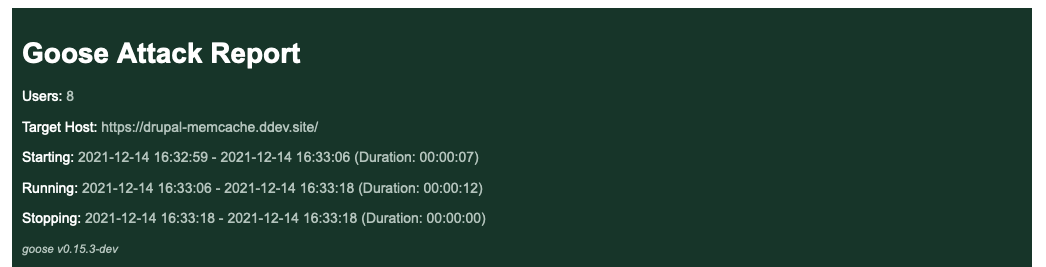
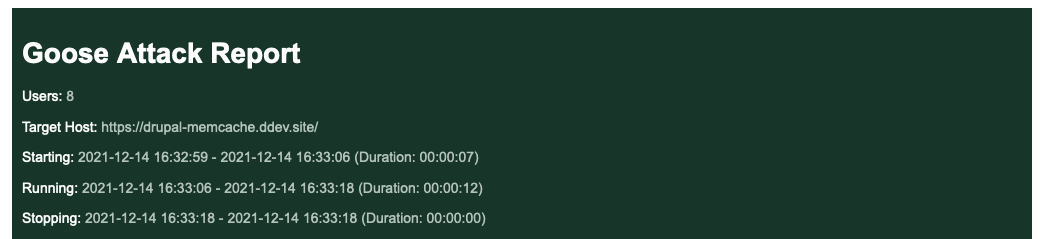
#388: Fix typo, add link, remove version from the screenshot.

diff --git a/src/docs/goose-book/src/getting-started/running.md b/src/docs/goose-book/src/getting-started/running.md
@@ -9,7 +9,7 @@ $ cargo run --release
 Error: InvalidOption { option: "--host", value: "", detail: "A host must be defined via the --host option, the GooseAttack.set_default() function, or the GooseTaskSet.set_host() function (no host defined for LoadtestTasks)." }
 ```
 
-The load test fails with an error as it hasn't been told the host you want to load test. So, let's try again, this time passing in the `--host` flag. We will also add `--report-file` flag, which will generate a a HTML report. Same information will also be printed to the command line (without graphs). After running for a few seconds, press `ctrl-c` to stop the load test:
+The load test fails with an error as it hasn't been told the host you want to load test. So, let's try again, this time passing in the `--host` flag. We will also add `--report-file` flag, which will generate a HTML report. Same information will also [be printed to the command line](metrics.md) (without graphs). After running for a few seconds, press `ctrl-c` to stop the load test:
 
 ```bash
 $ cargo run --release -- --host https://drupal-memcache.ddev.site --report-file=report.html
